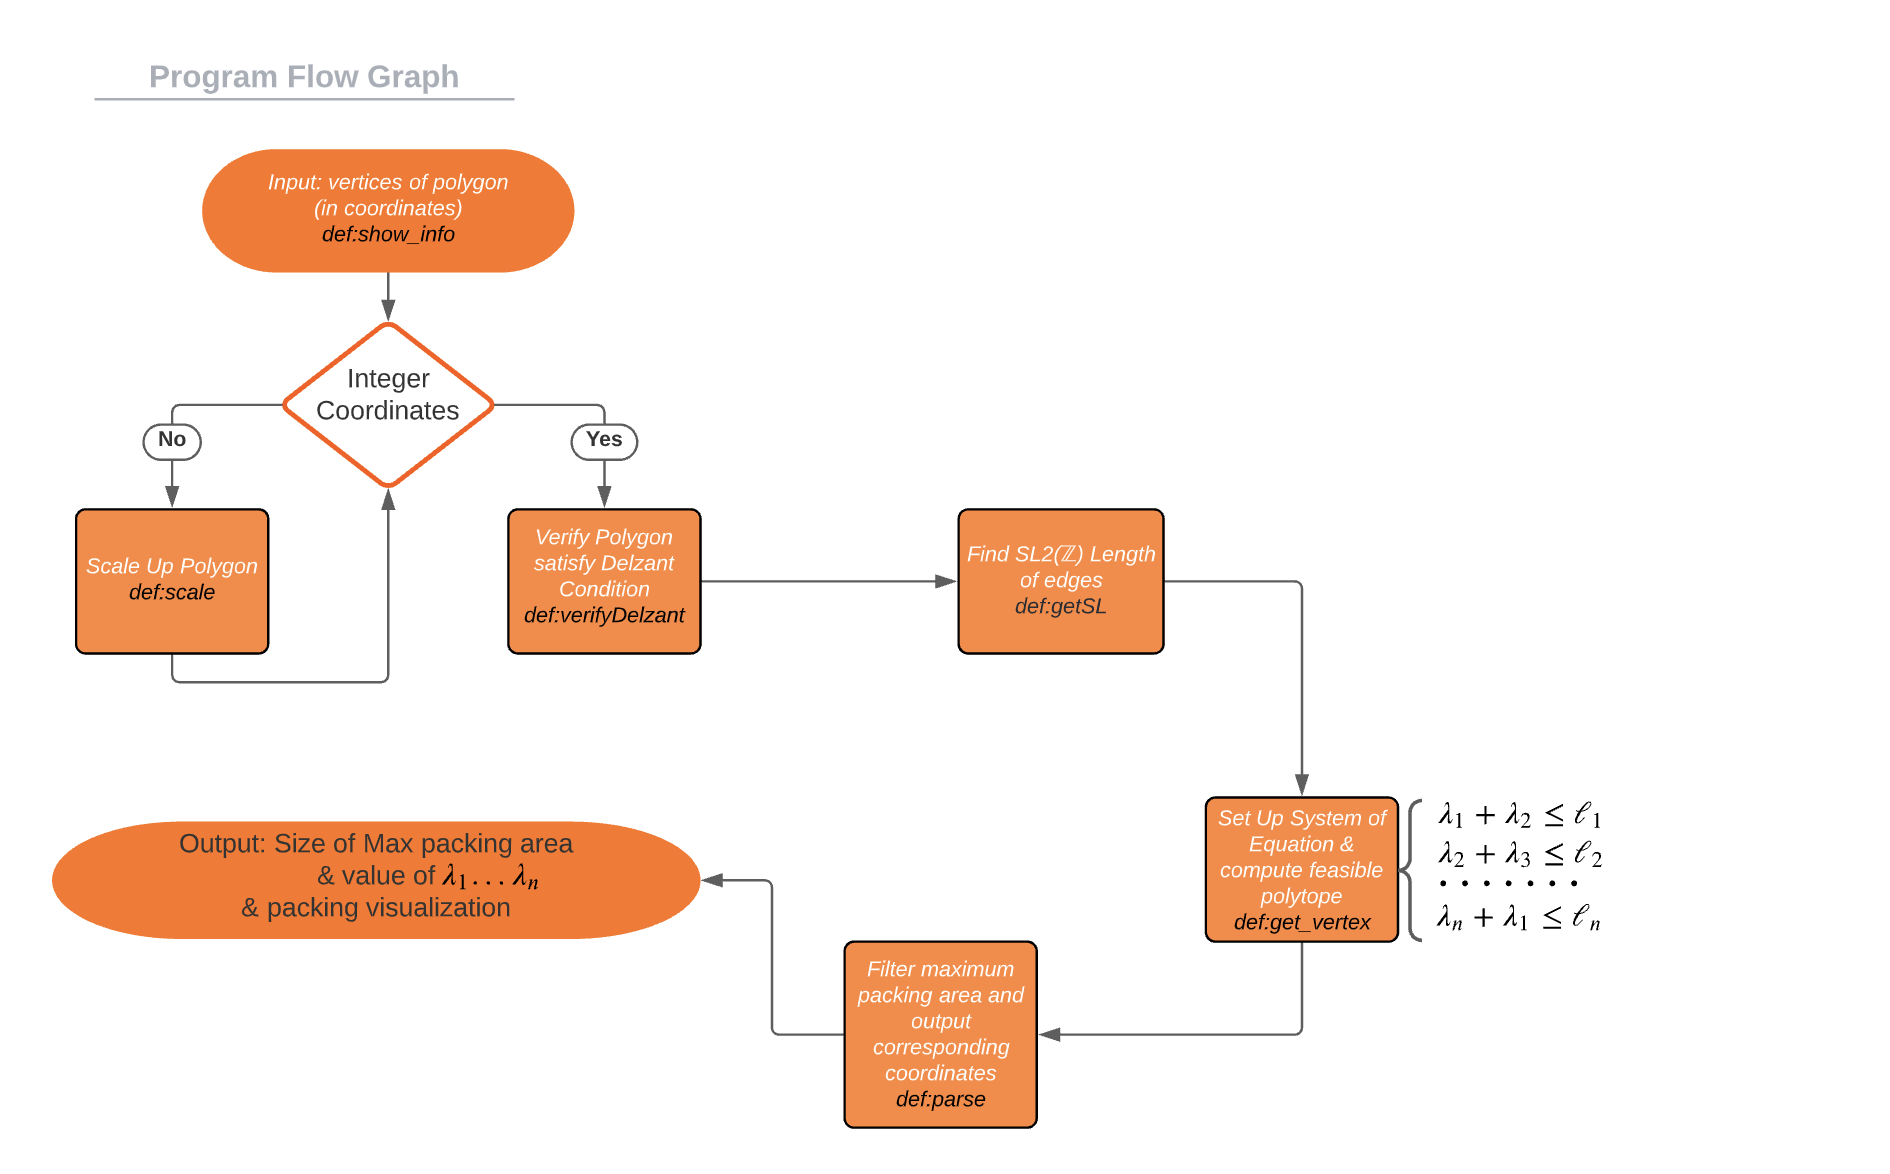
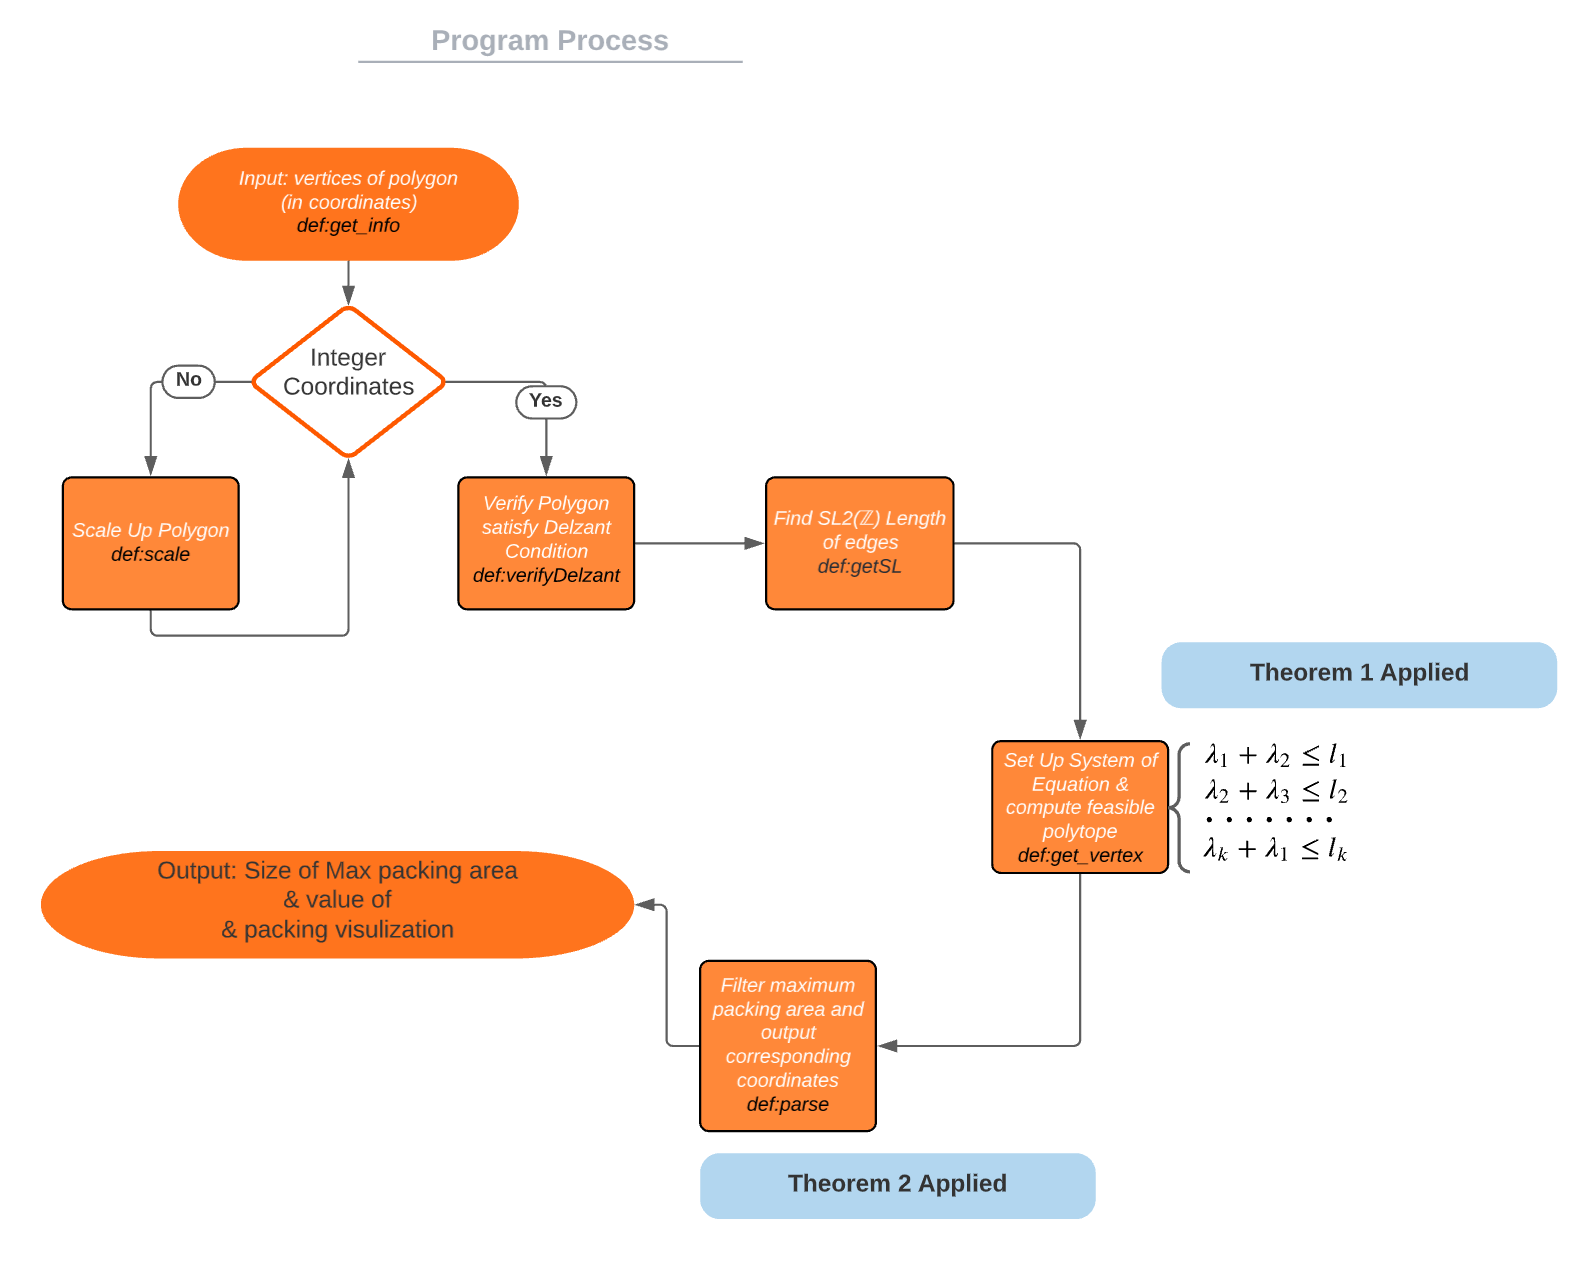
update

diff --git a/utilities.py b/utilities.py
@@ -201,7 +201,7 @@ def parse(SL2_lengths):
   return result
 
 #Integerate all prompt messages and use all helper functions above for final information representation.
-def show_info(Vertices, all=False):
+def get_info(Vertices, all=False):
   if (not checkConvex(Vertices)):
     print("Convex Polygon, Please check your input vertices")
     return

diff --git a/usage_entry.py b/usage_entry.py
@@ -9,6 +9,8 @@ if __name__ == "__main__":
     #                  [1, 1],
     #                  [-2, 1]]
     #                 )
-    # utilities.show_info(test, False)
+    # utilities.get_info(test, False)
 
-
+    test = np.array([[0, 0], [13, -13], [13, 4],
+                     [12, 5], [8, 7], [0, 7]])
+    utilities.show_info(test)
